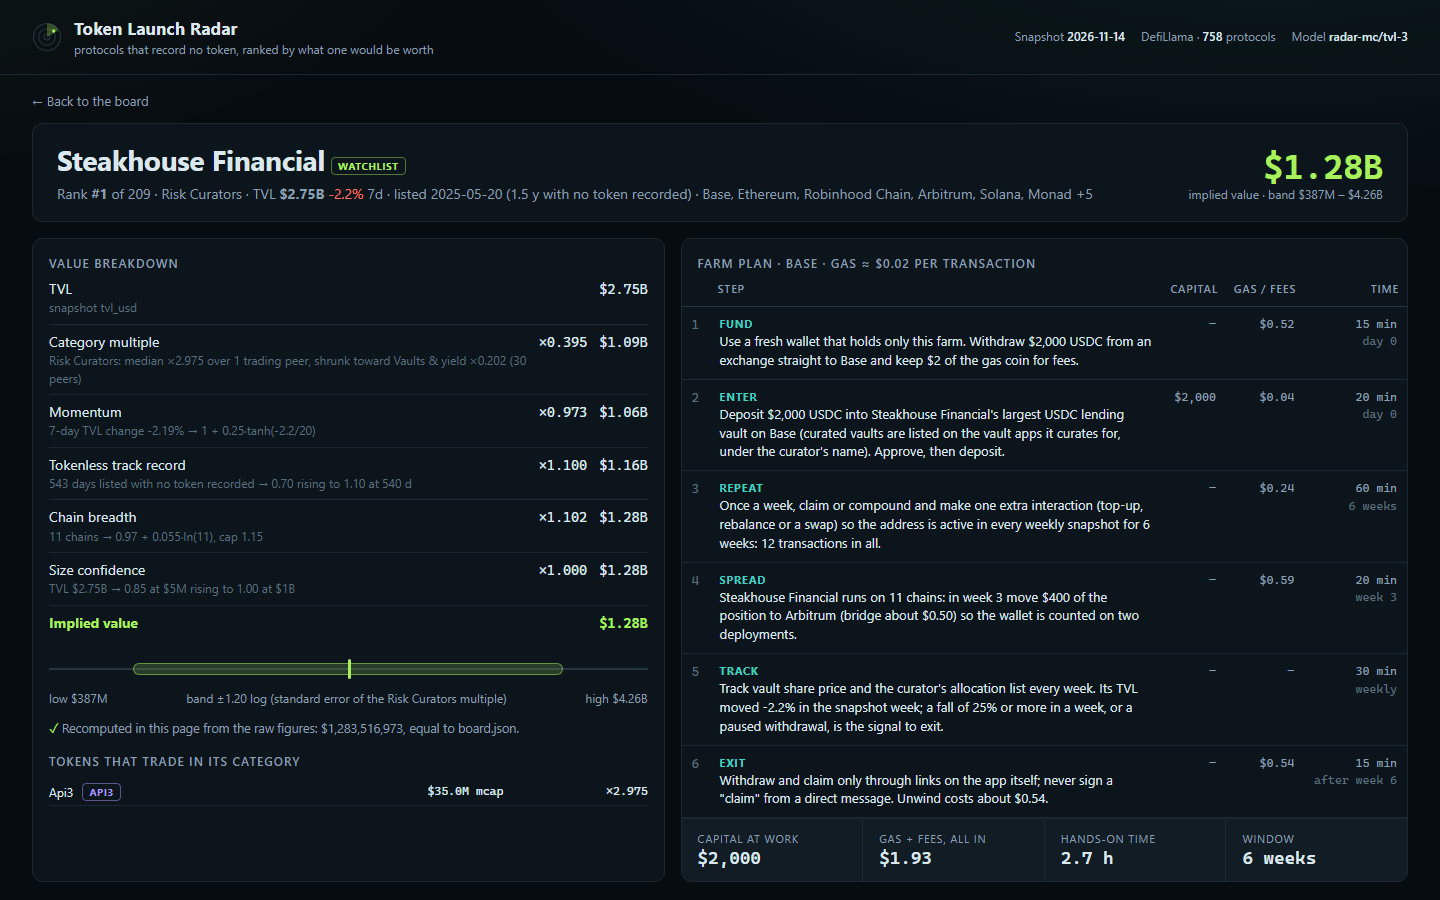
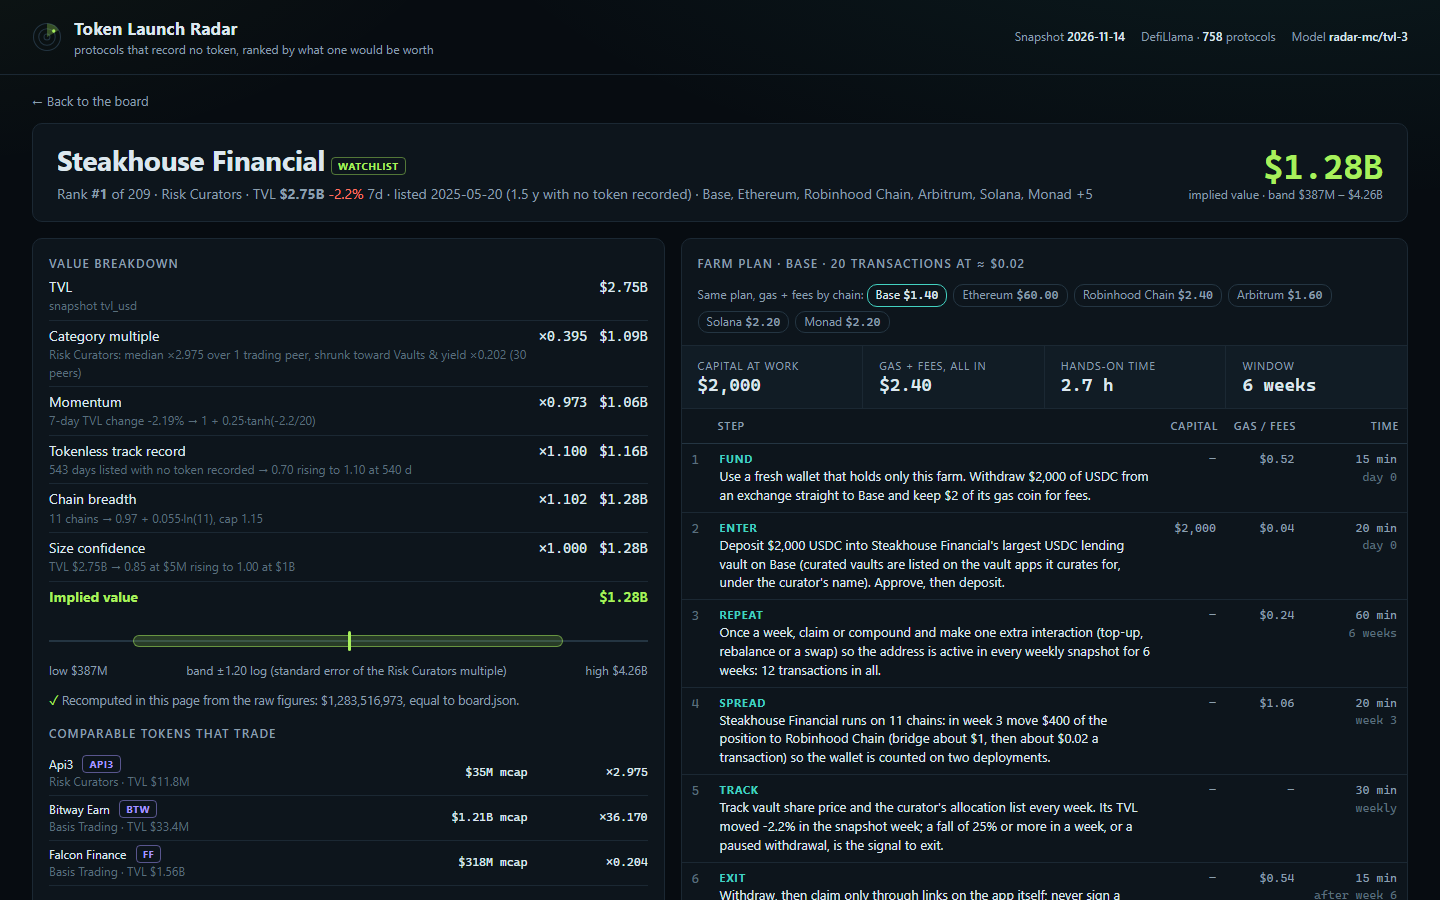
Plans: tx counts, per-chain gas comparison, budget step, funding asset per chain, wider gas table; page: plan totals up top, comparable tokens, lane legend; README model notes

diff --git a/lib/model.ts b/lib/model.ts
@@ -93,6 +93,17 @@ export const GAS: Record<string, [number, number]> = {
   Algorand: [0.002, 0.5], Stellar: [0.001, 0.5], Ripple: [0.001, 0.5], Flare: [0.01, 1.5], TON: [0.03, 0.5],
   Starknet: [0.03, 1.5], Bittensor: [0.01, 1], Noble: [0.01, 0.5], Sei: [0.01, 1], Celo: [0.01, 1],
   'World Chain': [0.02, 1], Fantom: [0.02, 1], xDai: [0.01, 1], Mezo: [0.02, 2], BSquared: [0.05, 2],
+  Arc: [0.01, 1], 'Robinhood Chain': [0.02, 1], Provenance: [0.05, 2], Morph: [0.02, 1], RISE: [0.01, 1.5],
+  'Plume Mainnet': [0.02, 1], Tempo: [0.01, 1], Pharos: [0.02, 1.5], Stable: [0.01, 1], Fluent: [0.02, 1.5],
+  RSK: [0.1, 2], 'X Layer': [0.02, 0.5], Manta: [0.02, 1], Ronin: [0.02, 1], Kava: [0.01, 1], Stacks: [0.3, 2],
+  Klaytn: [0.02, 0.5], Hemi: [0.05, 1.5], TAC: [0.02, 1.5], BOB: [0.02, 1], CORE: [0.02, 1], Citrea: [0.05, 2],
+  Etherlink: [0.01, 1], Blast: [0.02, 1], Sophon: [0.02, 1], Soneium: [0.02, 1], Mode: [0.02, 1], Near: [0.01, 0.5],
+};
+
+/** What to withdraw from an exchange to fund a chain whose DeFi does not start from USDC. */
+export const FUND_ASSET: Record<string, string> = {
+  Bitcoin: 'BTC', BSquared: 'BTC', Mezo: 'BTC', CORE: 'BTC', Stacks: 'STX', RSK: 'BTC', Bittensor: 'TAO', Cardano: 'ADA',
+  Ripple: 'XRP', Tron: 'USDT', TON: 'USDT', Flare: 'XRP (as FXRP) or USDT0', Algorand: 'USDC or ALGO', Kava: 'USDT',
 };
 const GAS_DEFAULT: [number, number] = [0.1, 2];
 
@@ -280,6 +291,8 @@ export interface PlanStep {
   capital: number;
   /** Gas and fees this step burns, USD. */
   fees: number;
+  /** On-chain transactions this step sends. */
+  txs: number;
   /** Hands-on minutes. */
   minutes: number;
   /** Elapsed span, as words. */
@@ -293,6 +306,9 @@ export interface Plan {
   fees_total: number;
   hands_on_minutes: number;
   weeks: number;
+  txs: number;
+  /** The same plan's gas and fees on each of the protocol's chains with a known gas cost. */
+  per_chain: { chain: string; gas: number; total: number }[];
   steps: PlanStep[];
 }
 
@@ -315,6 +331,7 @@ export function chainFor(p: SnapshotProtocol): { chain: string; gas: number; fun
 }
 
 /** Category-specific action: [what you do, how many transactions it takes, what you track]. */
+const WEEKLY_TRADING_FEE: Record<string, number> = { Derivatives: 1, Options: 1, 'Options Vault': 0.5, 'Interest Rate Derivatives': 1, Dexs: 0.05, 'Prediction Market': 0.5 };
 function actionFor(p: SnapshotProtocol, chain: string, capital: number): [string, number, string] {
   const n = p.name;
   const c = p.category ?? '';
@@ -351,7 +368,7 @@ function actionFor(p: SnapshotProtocol, chain: string, capital: number): [string
     case 'Staking Pool':
       return [`Deposit ${cap} of a liquid-staked asset (or the chain's native coin) into ${n}'s default vault or pool on ${chain}; note the withdrawal delay before you commit (often 7-21 days)`, 2, 'vault TVL, operator/network set and the unbonding period'];
     case 'Chain':
-      return [`Bridge ${cap} to ${n} through its official bridge and use three of its native apps each week (a swap, a lend and a liquidity deposit) so the address shows steady activity`, 6, 'weekly active days, bridged balance and the chain\'s own points page'];
+      return [`Bridge ${cap} to ${chain} through the official bridge and use ${n} plus two other native apps each week (a swap, a lend and a liquidity deposit) so the address shows steady on-chain activity`, 6, 'weekly active days, bridged balance and the chain\'s own points page'];
     case 'Payments':
       return [`Open a ${cap} channel on ${n} from a self-custodial wallet (one on-chain open), then route 5-10 small payments a week through it`, 2, 'channel balance, routing fees and on-chain fee level before closing'];
     case 'CeDeFi':
@@ -391,70 +408,69 @@ export function buildPlan(p: SnapshotProtocol, age: number | null, lane: Lane): 
   const capital = capitalFor(p, gas);
   const weeks = weeksFor(age);
   const [action, txs, track] = actionFor(p, chain, capital);
-  const weeklyTx = 2;
+  const weeklyFee = WEEKLY_TRADING_FEE[p.category ?? ''] ?? 0;
   const mom = p.change_7d;
   const steps: PlanStep[] = [];
   steps.push({
     step: 'Fund',
-    action: `Use a fresh wallet that holds only this farm. Withdraw ${money(capital)} USDC from an exchange straight to ${chain}${alt !== null ? ` (cheaper than ${alt}, where one transaction costs about ${money((GAS[alt] ?? GAS_DEFAULT)[0])})` : ''} and keep ${money(Math.max(2, gas * 20))} of the gas coin for fees.`,
-    capital: 0,
-    fees: r2(fund + gas),
-    minutes: 15,
-    span: 'day 0',
+    action: `Use a fresh wallet that holds only this farm. Withdraw ${money(capital)} of ${FUND_ASSET[chain] ?? 'USDC'} from an exchange straight to ${chain}${alt !== null ? ` (one transaction on ${alt} costs about ${money((GAS[alt] ?? GAS_DEFAULT)[0])})` : ''} and keep ${money(Math.max(2, gas * 20))} of its gas coin for fees.`,
+    capital: 0, fees: r2(fund + gas), txs: 1, minutes: 15, span: 'day 0',
   });
-  steps.push({ step: 'Enter', action: `${action}.`, capital, fees: r2(txs * gas), minutes: 10 + txs * 5, span: 'day 0' });
+  steps.push({ step: 'Enter', action: `${action}.`, capital, fees: r2(txs * gas), txs, minutes: 10 + txs * 5, span: 'day 0' });
   steps.push({
     step: 'Repeat',
-    action: `Once a week, claim or compound and make one extra interaction (top-up, rebalance or a swap) so the address is active in every weekly snapshot for ${weeks} weeks: ${weeks * weeklyTx} transactions in all.`,
-    capital: 0,
-    fees: r2(weeks * weeklyTx * gas),
-    minutes: weeks * 10,
-    span: `${weeks} weeks`,
+    action: `Once a week, claim or compound and make one extra interaction (top-up, rebalance or a swap) so the address is active in every weekly snapshot for ${weeks} weeks: ${weeks * 2} transactions in all${weeklyFee > 0 ? `, plus about ${money(weeklyFee)} a week in trading fees` : ''}.`,
+    capital: 0, fees: r2(weeks * (2 * gas + weeklyFee)), txs: weeks * 2, minutes: weeks * 10, span: `${weeks} weeks`,
   });
   if (p.chains.length >= 3) {
     const second = p.chains.find((c) => c !== chain && GAS[c] !== undefined && GAS[c][0] < 0.2);
     if (second !== undefined) {
+      const [g2, f2] = GAS[second]!;
       steps.push({
         step: 'Spread',
-        action: `${p.name} runs on ${p.chains.length} chains: in week 3 move ${money(Math.round(capital * 0.2))} of the position to ${second} (bridge about ${money((GAS[second] ?? GAS_DEFAULT)[1])}) so the wallet is counted on two deployments.`,
-        capital: 0,
-        fees: r2((GAS[second] ?? GAS_DEFAULT)[1] + 3 * (GAS[second] ?? GAS_DEFAULT)[0]),
-        minutes: 20,
-        span: 'week 3',
+        action: `${p.name} runs on ${p.chains.length} chains: in week 3 move ${money(Math.round(capital * 0.2))} of the position to ${second} (bridge about ${money(f2)}, then about ${money(g2)} a transaction) so the wallet is counted on two deployments.`,
+        capital: 0, fees: r2(f2 + 3 * g2), txs: 3, minutes: 20, span: 'week 3',
       });
     }
   }
   steps.push({
     step: 'Track',
     action: `Track ${track} every week. Its TVL moved ${mom === null ? 'an unreported amount' : `${mom > 0 ? '+' : ''}${mom.toFixed(1)}%`} in the snapshot week; a fall of 25% or more in a week, or a paused withdrawal, is the signal to exit.`,
-    capital: 0,
-    fees: 0,
-    minutes: weeks * 5,
-    span: 'weekly',
+    capital: 0, fees: 0, txs: 0, minutes: weeks * 5, span: 'weekly',
   });
   steps.push({
     step: 'Exit',
-    action: `${lane === 'related' ? 'A related token already trades, so a separate airdrop is less likely: cap this farm at the stated capital. ' : ''}Withdraw and claim only through links on the app itself; never sign a "claim" from a direct message. Unwind costs about ${money(txs * gas + fund)}.`,
-    capital: 0,
-    fees: r2(txs * gas + fund),
-    minutes: 15,
-    span: `after week ${weeks}`,
+    action: `${lane === 'related' ? 'A related token already trades, so a separate airdrop is less likely: keep this farm at the stated capital. ' : ''}Withdraw, then claim only through links on the app itself; never sign a "claim" from a direct message. Unwinding is ${txs} transactions plus the move back to an exchange.`,
+    capital: 0, fees: r2(txs * gas + fund), txs, minutes: 15, span: `after week ${weeks}`,
   });
   const fees = r2(steps.reduce((a, s) => a + s.fees, 0));
   const minutes = steps.reduce((a, s) => a + s.minutes, 0);
-  return { chain, gas_per_tx: gas, capital, fees_total: fees, hands_on_minutes: minutes, weeks, steps };
+  const txTotal = steps.reduce((a, s) => a + s.txs, 0);
+  const extra = weeks * weeklyFee;
+  const per_chain = p.chains
+    .filter((c) => GAS[c] !== undefined)
+    .slice(0, 6)
+    .map((c) => ({ chain: c, gas: GAS[c]![0], total: r2(txTotal * GAS[c]![0] + 2 * GAS[c]![1] + extra) }));
+  return { chain, gas_per_tx: gas, capital, fees_total: fees, hands_on_minutes: minutes, weeks, txs: txTotal, per_chain, steps };
+}
+
+/** One-line budget that opens the board's farm_steps. */
+export function budgetLine(p: Plan): string {
+  const dear = [...p.per_chain].sort((a, b) => b.total - a.total)[0];
+  const cmpTo = dear !== undefined && dear.chain !== p.chain && dear.total > p.fees_total * 1.5 ? ` The same plan on ${dear.chain} would burn about ${money(dear.total)} in gas and fees.` : '';
+  return `Budget: ${money(p.capital)} of capital for ${p.weeks} weeks on ${p.chain}, about ${money(p.fees_total)} of gas and fees in all (${p.txs} transactions at about ${money(p.gas_per_tx)} each), and ${(p.hands_on_minutes / 60).toFixed(1)} hours hands-on.${cmpTo}`;
 }
 
 const r2 = (n: number): number => Math.round(n * 100) / 100;
 
 /** The plan as the board's farm_steps strings: action, then cost and time, 20..600 characters. */
 export function stepStrings(plan: Plan): string[] {
-  return plan.steps.map((s) => {
+  return [budgetLine(plan)].concat(plan.steps.map((s) => {
     const cost = `${s.capital > 0 ? `${money(s.capital)} capital + ` : ''}${s.fees > 0 ? `~${money(s.fees)} gas/fees` : 'no gas'}`;
     let t = `${s.step}: ${s.action} Cost: ${cost}. Time: ${s.minutes} min hands-on, ${s.span}.`;
     if (t.length > 600) t = `${t.slice(0, 597)}...`;
     return t;
-  });
+  }));
 }
 
 // ------------------------------------------------------------------ the board

diff --git a/dashboard/app.js b/dashboard/app.js
@@ -85,7 +85,7 @@
     if (n === null || n === undefined) return 'n/a';
     var a = Math.abs(n);
     if (a >= 1e9) return '$' + (n / 1e9).toFixed(2) + 'B';
-    if (a >= 1e6) return '$' + (n / 1e6).toFixed(a >= 1e8 ? 0 : 1) + 'M';
+    if (a >= 1e6) return '$' + (n / 1e6).toFixed(a >= 1e8 ? 0 : 1).replace(/\.0$/, '') + 'M';
     if (a >= 1e3) return '$' + (n / 1e3).toFixed(0) + 'K';
     return '$' + (a >= 10 ? n.toFixed(0) : n.toFixed(2));
   }
@@ -142,6 +142,7 @@
       '<div class="panel pad"><h3>How implied value is set</h3>' +
       '<div class="formula">TVL × <em>multiple</em><br>× momentum(7d) × track(tokenless days)<br>× breadth(chains) × confidence(TVL)<br>× 0.25 if a related token trades</div>' +
       '<p><b>Multiple</b> = median market cap / TVL of the snapshot’s ' + D.peers.length + ' protocols whose token trades, per category, shrunk toward its family and the global median by sample size (K = ' + K.shrink + '). No name is hard-coded.</p>' +
+      '<div class="legend">' + tag('watchlist') + '<span>house list: TVL ≥ ' + usd(D.floor_usd) + '</span>' + tag('early') + '<span>off the list, no token</span>' + tag('related') + '<span>same-name token, ×' + K.related_haircut + '</span></div>' +
       '<p class="check"><span class="ok">✓</span> This page re-ran the calibration: ' + CAT_OK + '/' + catList.length + ' category multiples and ' + MATCH + '/' + D.rows.length + ' implied values equal board.json.</p></div>' +
       '<div class="panel pad"><h3>Multiples used most</h3><table class="mini"><tbody>' +
       top.map(function (c) { var m = CAL.categories[c]; return '<tr><td>' + esc(c) + ' <span class="sub">' + m.n + ' trading peers · ' + esc(m.family) + '</span></td><td class="n mono">' + x(m.multiple) + '</td></tr>'; }).join('') +
@@ -290,10 +291,10 @@
     line('Chain breadth', f.breadth, r.chains.length + ' chain' + (r.chains.length > 1 ? 's' : '') + ' → 0.97 + 0.055·ln(' + r.chains.length + '), cap 1.15');
     line('Size confidence', f.confidence, 'TVL ' + usd(r.tvl) + ' → 0.85 at $5M rising to 1.00 at $1B');
     if (r.lane === 'related') line('Related token haircut', f.related, 'a related token already trades, so most value may accrue to it');
-    var peers = D.peers.filter(function (p) { return (p[1] || 'Uncategorised') === (r.cat || 'Uncategorised'); });
-    if (!peers.length) peers = D.peers.filter(function (p) { return familyOf(p[1]) === c.family; });
-    peers = peers.sort(function (a, b) { return b[4] - a[4]; }).slice(0, 4);
-    var lo = Math.log(r.lo), hi = Math.log(r.hi), span = Math.log(r.hi * 1.6) - Math.log(r.lo / 1.6);
+    function byMcap(a, b) { return b[4] - a[4]; }
+    var peers = D.peers.filter(function (p) { return (p[1] || 'Uncategorised') === (r.cat || 'Uncategorised'); }).sort(byMcap).slice(0, 3);
+    D.peers.filter(function (p) { return familyOf(p[1]) === c.family && peers.indexOf(p) < 0; }).sort(byMcap).forEach(function (p) { if (peers.length < 3) peers.push(p); });
+    var span = Math.log(r.hi * 1.6) - Math.log(r.lo / 1.6);
     function pos(v) { return ((Math.log(v) - Math.log(r.lo / 1.6)) / span * 100).toFixed(1) + '%'; }
     var p = r.plan;
     app.innerHTML = '<a class="back" href="#">← Back to the board</a>' +
@@ -307,15 +308,17 @@
       '<div class="bandviz"><div class="axis"></div><div class="rng" style="left:' + pos(r.lo) + ';width:calc(' + pos(r.hi) + ' - ' + pos(r.lo) + ')"></div><div class="pt" style="left:' + pos(r.v) + '"></div></div>' +
       '<div class="bandlbl"><span>low ' + usd(r.lo) + '</span><span>band ±' + band[2].toFixed(2) + ' log (standard error of the ' + esc(r.cat || '') + ' multiple)</span><span>high ' + usd(r.hi) + '</span></div>' +
       '<p class="check">' + (r.calc === r.v ? '<span class="ok">✓</span> Recomputed in this page from the raw figures: ' + dollars(r.calc) + ', equal to board.json.' : '✗ Page computes ' + dollars(r.calc) + ', board.json says ' + dollars(r.v) + '.') + '</p>' +
-      '<h3 style="margin-top:16px">Tokens that trade in its category</h3><table class="mini"><tbody>' +
-      peers.map(function (q) { return '<tr><td>' + esc(q[0]) + ' <span class="tag trading">' + esc(q[2] || '') + '</span></td><td class="n mono">' + usd(q[4]) + ' mcap</td><td class="n mono">' + x(q[4] / q[3]) + '</td></tr>'; }).join('') +
+      '<h3 style="margin-top:16px">Comparable tokens that trade</h3><table class="mini"><tbody>' +
+      peers.map(function (q) { return '<tr><td>' + esc(q[0]) + ' <span class="tag trading">' + esc(q[2] || '') + '</span> <span class="sub">' + esc(q[1] || '') + ' · TVL ' + usd(q[3]) + '</span></td><td class="n mono">' + usd(q[4]) + ' mcap</td><td class="n mono">' + x(q[4] / q[3]) + '</td></tr>'; }).join('') +
       '</tbody></table></section>' +
-      '<section class="panel"><div class="pad" style="padding-bottom:0"><h3>Farm plan · ' + esc(p.chain) + ' · gas ≈ ' + dollars(p.gas_per_tx) + ' per transaction</h3></div>' +
+      '<section class="panel"><div class="pad" style="padding-bottom:0"><h3>Farm plan · ' + esc(p.chain) + ' · ' + p.txs + ' transactions at ≈ ' + dollars(p.gas_per_tx) + '</h3>' +
+      '<p class="perchain">Same plan, gas + fees by chain: ' + p.per_chain.map(function (q) { return '<span' + (q.chain === p.chain ? ' class="on"' : '') + '>' + esc(q.chain) + ' <b>' + dollars(q.total) + '</b></span>'; }).join('') + '</p></div>' +
+      '<div class="totals"><div><span>Capital at work</span><b>' + dollars(p.capital) + '</b></div><div><span>Gas + fees, all in</span><b>' + dollars(p.fees_total) + '</b></div><div><span>Hands-on time</span><b>' + mins(p.hands_on_minutes) + '</b></div><div><span>Window</span><b>' + p.weeks + ' weeks</b></div></div>'+
       '<table class="steps"><thead><tr><th></th><th>Step</th><th class="n">Capital</th><th class="n">Gas / fees</th><th class="n">Time</th></tr></thead><tbody>' +
       p.steps.map(function (s, i) {
         return '<tr><td>' + (i + 1) + '</td><td><span class="lbl">' + esc(s.step) + '</span>' + esc(s.action) + '</td><td class="n">' + (s.capital ? dollars(s.capital) : '–') + '</td><td class="n">' + (s.fees ? dollars(s.fees) : '–') + '</td><td class="n">' + mins(s.minutes) + '<span class="sub">' + esc(s.span) + '</span></td></tr>';
       }).join('') + '</tbody></table>' +
-      '<div class="totals"><div><span>Capital at work</span><b>' + dollars(p.capital) + '</b></div><div><span>Gas + fees, all in</span><b>' + dollars(p.fees_total) + '</b></div><div><span>Hands-on time</span><b>' + mins(p.hands_on_minutes) + '</b></div><div><span>Window</span><b>' + p.weeks + ' weeks</b></div></div></section></div>';
+      '</section></div>';
     window.scrollTo(0, 0);
   }
 

diff --git a/dashboard/app.css b/dashboard/app.css
@@ -133,7 +133,7 @@ td.rk { color: var(--dim); width: 44px; font-family: var(--mono); }
 .big span { color: var(--mute); font-size: 12px; }
 .dgrid { display: grid; grid-template-columns: 1fr 1.15fr; gap: var(--s4); margin-top: var(--s4); }
 .steps td, .waterfall td { white-space: normal; vertical-align: top; }
-.waterfall td { padding: 7px 0; }
+.waterfall td { padding: 5px 0; }
 .waterfall td.n { padding-left: var(--s3); white-space: nowrap; }
 .waterfall .why { color: var(--dim); font-size: 12px; display: block; }
 .waterfall tr.total td { border-top: 1px solid var(--line-2); border-bottom: 0; font-weight: 700; color: var(--lime); }
@@ -143,16 +143,22 @@ td.rk { color: var(--dim); width: 44px; font-family: var(--mono); }
 .bandviz .pt { position: absolute; top: 7px; width: 3px; height: 20px; background: var(--lime); border-radius: 2px; }
 .bandlbl { display: flex; justify-content: space-between; color: var(--mute); font-size: 12px; }
 .steps { font-size: 13px; }
-.steps td { padding: 9px 10px; }
+.steps td { padding: 7px 10px; }
 .steps td:first-child { width: 28px; color: var(--dim); font-family: var(--mono); }
 .steps .lbl { display: block; font-weight: 700; color: var(--teal); font-size: 11px; text-transform: uppercase; letter-spacing: .07em; }
 .steps td.n { white-space: nowrap; color: var(--mute); font-size: 12px; }
-.totals { display: grid; grid-template-columns: repeat(4, 1fr); gap: 1px; background: var(--line); border-top: 1px solid var(--line); }
+.totals { display: grid; grid-template-columns: repeat(4, 1fr); gap: 1px; background: var(--line); border-top: 1px solid var(--line); border-bottom: 1px solid var(--line); }
 .totals div { background: var(--panel-2); padding: var(--s3) var(--s4); }
 .totals span { display: block; font-size: 11px; color: var(--mute); text-transform: uppercase; letter-spacing: .07em; }
 .totals b { font: 600 18px var(--mono); }
 .note-rel { margin: 0 var(--s5) var(--s4); padding: var(--s2) var(--s3); border-left: 3px solid var(--amber); background: rgba(255, 181, 71, .07); color: var(--ink); font-size: 13px; }
 .check { margin-top: var(--s3); font-size: 12.5px; color: var(--mute); }
+.legend { font-size: 12px; line-height: 2.1; }
+.legend .tag { margin: 0 8px 0 0; min-width: 96px; text-align: center; }
+.perchain { margin: var(--s2) 0 var(--s3); font-size: 12px; color: var(--mute); }
+.perchain span { display: inline-block; margin: 4px 6px 0 0; padding: 1px 8px; border: 1px solid var(--line-2); border-radius: 10px; }
+.perchain span.on { border-color: var(--teal); color: var(--ink); }
+.perchain b { font-family: var(--mono); font-weight: 600; }
 
 .foot { padding: 0 var(--s6) var(--s5); color: var(--dim); font-size: 12px; }
 .empty { padding: var(--s6); text-align: center; color: var(--mute); }

diff --git a/README.md b/README.md
@@ -10,7 +10,25 @@ A radar of DeFi protocols that record no token yet, ranked by an implied launch 
 
 ```sh
 mkdir -p out && MAKEFUN_OUTPUT_DIR=out node main.ts --input /path/to/snapshot.json
+node tools/validate.mjs --input /path/to/snapshot.json   # local gate check, runs main.ts twice
+node tools/shoot.mjs --out out-a                          # headless Chrome screenshots
 ```
+
+## How the model works
+
+Everything comes from the snapshot's own fields (`lib/model.ts`). No protocol is named anywhere in the code.
+
+1. **Universe.** Rows are every watchlist slug, plus every protocol that records no token (no `gecko_id`, `symbol` or `mcap_usd`). Left out: CEXes, exchange-branded products, and wrapped, staked or bridged assets, because their value is an asset that already trades. A protocol whose first distinctive name word matches a protocol that does record a token is kept, but flagged **related token** and multiplied by 0.25.
+2. **Calibration.** The 119 protocols whose token trades (with a `gecko_id`, `mcap_usd` and TVL, CEXes left out) each give a market-cap/TVL multiple. The model takes log-medians per category and per family of categories, then shrinks each toward its parent level by sample size: `(n·median + 3·parent) / (n + 3)`.
+3. **Implied value** = TVL × category multiple × momentum × track × breadth × confidence × related.
+   - momentum = `1 + 0.25·tanh(change_7d / 20)`, bounded between 0.75 and 1.25
+   - track (days listed with no token) = 0.70 rising to 1.10 at 540 days, then easing to 0.95 at 5 years
+   - breadth = `0.97 + 0.055·ln(chains)`, capped at 1.15
+   - confidence = 0.85 at $5M TVL, rising to 1.00 at $1B
+4. **Band.** low and high = value × e^∓h, where h is the standard error of the category's median multiple.
+5. **Farm plan.** Each protocol gets steps for its category (a curator vault deposit, a lending loop, a CDP mint, a DEX LP, perp volume and so on). The plan runs on its cheapest sensible chain. Costs use a stated gas table in dollars per transaction, capital scales with TVL, and the holding window depends on age. Each step lists its capital, gas, fees and time. The plan also shows the same plan's cost on each of the protocol's chains.
+
+The page (`dashboard/app.js`) does not trust these numbers. It re-runs the calibration from the peer set in `data.js`, rebuilds every row's factors from the raw figures, and reports whether its results match `board.json`. Implied value is this radar's claim of what a token would be worth if the protocol's record stayed as it is. It does not predict whether or when a token is issued.
 
 ---
 
